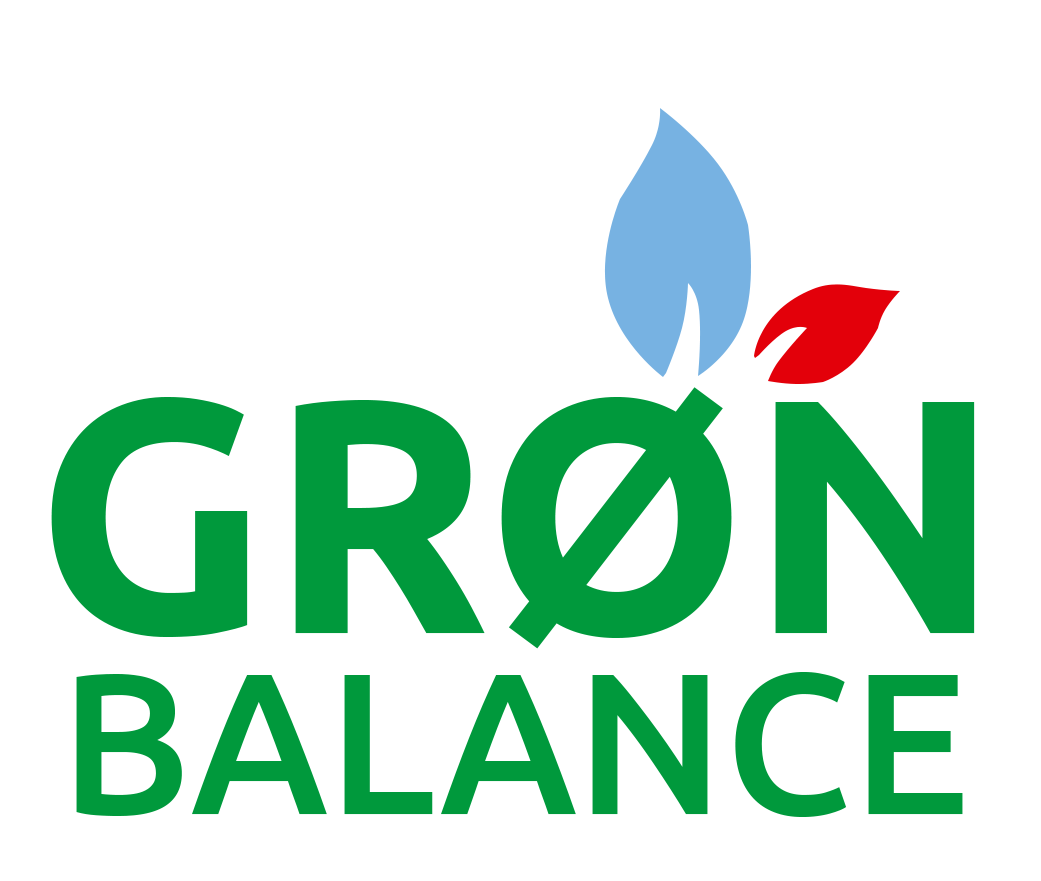
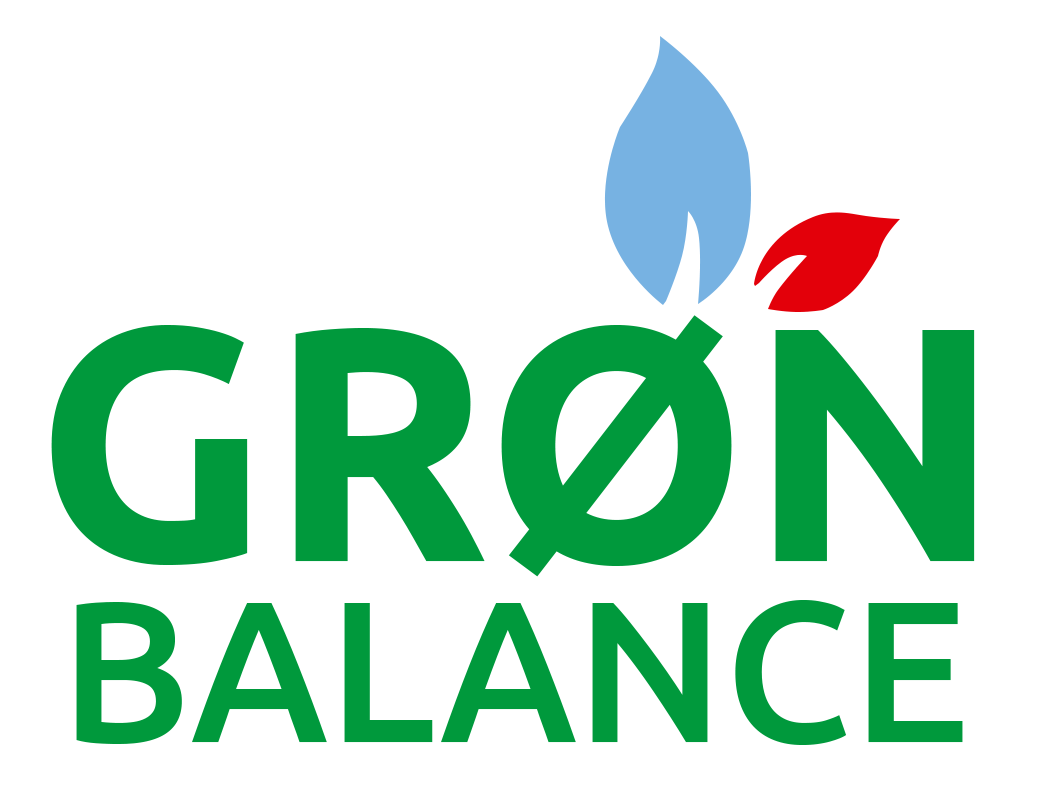
nye logoer
Tilføjet nye logoer til alle platformer i højere kvalitet

diff --git a/deosite.css b/deosite.css
@@ -23,7 +23,7 @@ img {
 
 /*Her begynder breakpoints for logoet*/
 
-/*Breakpoint for Mobil*/
+/*Breakpoint for logo Mobil*/
 
 @media only screen and (min-width: 0px) {
     #logomobil,
@@ -73,7 +73,7 @@ img {
     }
 }
 
-/*Breakpoint for Desktop*/
+/*Breakpoint for logo Desktop*/
 
 @media only screen and (min-width: 1024px) {
     #logo,
@@ -87,6 +87,7 @@ img {
         display: block;
         height: 7em;
         padding-bottom: 1em;
+        margin-left: 0.2em;
     }
     #logomobil,
     #logotablet {
@@ -271,7 +272,7 @@ li a:hover:not(.active) {
 
 }
 
-/*Her starter "Blå Himmel" feltet.*/
+/*Her starter "Blå Himmel" F2 feltet.*/
 
 #f2 {
     grid-area: f2;
@@ -292,15 +293,15 @@ li a:hover:not(.active) {
     column-gap: 2em;
     padding: 1em;
     padding-bottom: 5em;
-    margin-top: -1.5em;
+    margin-top: -1.22em;
     margin-left: auto;
     margin-right: auto;
     max-width: 57.2em;
-    background: #FFF;
+    background: rgba(255, 255, 255, 0.4);
     position: relative;
     z-index: 2;
     display: block;
-    box-shadow: 0px 5px 5px 0px rgba(0, 0, 0, 0.2);
+    box-shadow: 0px 7px 7px 0px rgba(0, 0, 0, 0.1);
 }
 
 h2 {
@@ -311,7 +312,7 @@ h2 {
     position: relative;
     text-align: center;
     max-width: 37.5em;
-    background-color: #FFF;
+    background: rgba(255, 255, 255, 0.4);
     padding: 1em;
     display: block;
     z-index: -1;
@@ -326,10 +327,7 @@ h2 {
 
 }
 
-#astma,
-#svanemaerke {
-    display: none;
-}
+
 
 /*#svane_astma_logo {
     background-image: url(billeder/AstmaAllergiDK.png), url(billeder/svane.png);
@@ -355,7 +353,7 @@ h2 {
 
 @media only screen and (min-width: 480px) {
     #svane_astma_logo {
-        background-image: url(billeder/AstmaAllergiDK.png),url(billeder/gbl.png), url(billeder/svane.png);
+        background-image: 
         background-repeat: no-repeat;
         background-position: bottom left,bottom center, bottom right;
         margin-top: 1em;
@@ -365,9 +363,6 @@ h2 {
         position: relative;
         z-index: 1;
         display: block;
-
-
-
 
     }
     #astma,
@@ -382,19 +377,20 @@ h2 {
 
 @media only screen and (min-width: 1024px) {
     #svane_astma_logo {
-        background-image: url(billeder/AstmaAllergiDK.png),url(billeder/gbl.png), url(billeder/svane.png);
+        background-image: 
         background-repeat: no-repeat;
         background-position: bottom left,bottom center, bottom right;
         margin-top: 1em;
-        background-size: 20%, 12%, 22.5%;
+        background-size: 24%, 12%, 27.5%;
         margin-left: auto;
         margin-right: auto;
         position: relative;
         z-index: 1;
         display: block;
     }
-    #id {}
 }
+
+/*Her slutter responsive størrelser for F2*/
 
 #f3 {
     grid-area: f3;
